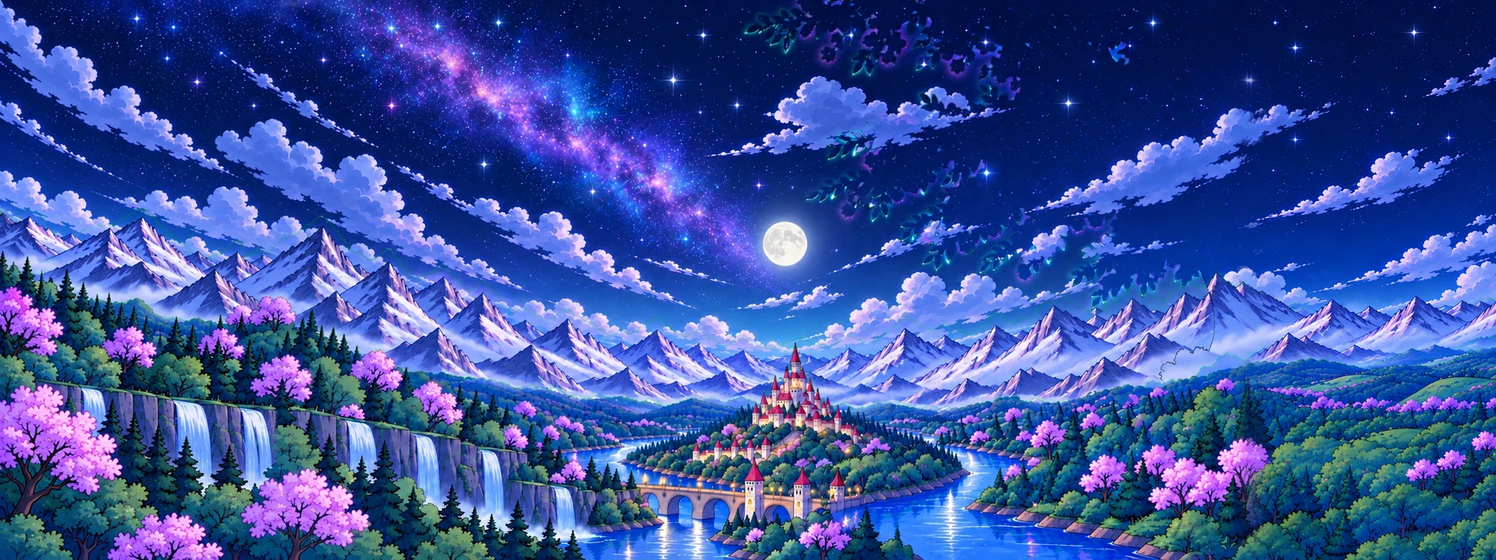
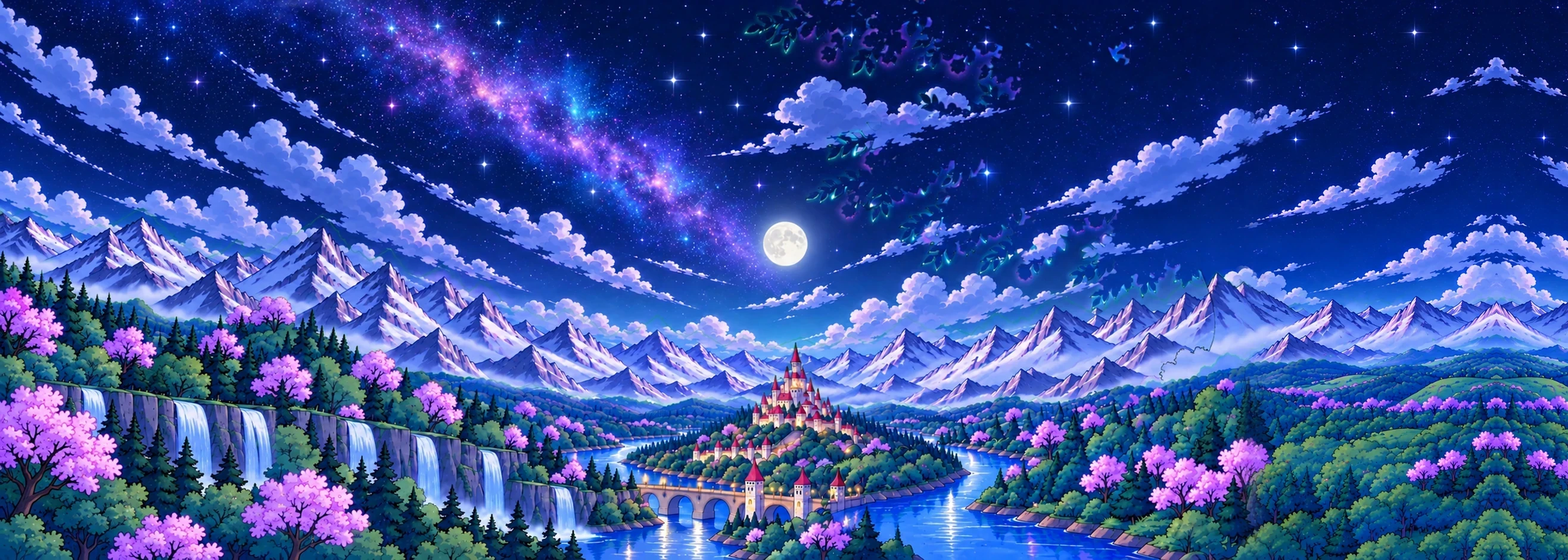
Portada: castillo y puente libres del risco (paisaje corrido), dragón y mago más a la izquierda, arbustos con flores bajo el árbol, techos fucsia de noche y pétalos de sakura más visibles

diff --git a/fondo-acuarela.js b/fondo-acuarela.js
@@ -14,7 +14,8 @@
 window.FondoAcuarela = (() => {
   const W = 1672, H = 941;                         // el dibujo original (las rutas del hada y las manchas se miden en él)
   const IZQ = 460, DER = 380, WL = W + DER;         // el paisaje continúa IZQ px a la izquierda y DER px a la derecha (el árbol ancho)
-  const CASTILLO = 800;   // entre la luna (700) y el castillo (861): los dos quedan al centro de la pantalla                             // x del castillo en el dibujo: queda al centro de la pantalla, bajo la luna (o el sol)
+  const BGX = 110;                                  // el paisaje de fondo se corre a la izquierda: el castillo y el puente quedan libres del risco
+  const CASTILLO = 861 - BGX, TRONCO = 2010;       // x del castillo (ya corrido) y del borde derecho del tronco ancho                             // x del castillo en el dibujo: queda al centro de la pantalla, bajo la luna (o el sol)
   const DURACION = 13;                             // segundos de la animación de pintado (desde el lineart)
   const TRAZO = 5.2;                               // segundos previos: el hada dibuja el lineart sobre la hoja en blanco
 
@@ -26,9 +27,9 @@ window.FondoAcuarela = (() => {
   // capas de la más lejana a la más cercana (todas con el marco completo de 1672 × 941).
   // figura: su lineart es el mismo de día y de noche
   const CAPAS = [
-    { id: '01-cielo', prof: .05 },
-    { id: '02-cordillera', prof: .15 },
-    { id: '03-valle', prof: .3 },
+    { id: '01-cielo', prof: .05, fondo: true },
+    { id: '02-cordillera', prof: .15, fondo: true },
+    { id: '03-valle', prof: .3, fondo: true },
     { id: '04-dragon', prof: .42, flota: [1.3, 7], figura: true, aura: [1.1, 0], corre: true },   // corre: el dragón y el mago, más a la izquierda (mismo tamaño)
     { id: '05-mago', prof: .55, flota: [1.7, 9], figura: true, aura: [1.5, 1.3], corre: true },
     { id: '06-primer-plano', prof: .85, aura: [.8, 2.4] },        // el árbol
@@ -134,6 +135,9 @@ window.FondoAcuarela = (() => {
         const [ea, el] = await Promise.all(['acuarela', 'lineart'].map(e => cargar(`assets/fondo/reino/${e === 'lineart' ? 'comun' : tema}/06-arbol-der-${e}.webp${VER}`).catch(() => null)));
         if (ea) co.getContext('2d').drawImage(ea, W - 80, 0, DER + 80, H);
         if (el) g.drawImage(el, W - 80, 0, DER + 80, H);
+        // arbustos con flores en el borde del pasto, bajo el árbol (detrás de la pareja)
+        const ab = await cargar(`assets/fondo/reino/${tema}/06-arbustos-acuarela.webp${VER}`).catch(() => null);
+        if (ab) co.getContext('2d').drawImage(ab, 1100, 752 - ab.height, ab.width, ab.height);
       }
       if (FONDO.includes(CAPAS.indexOf(c))) {   // el borde izquierdo del paisaje se funde con su continuación ancha (sin costura)
         [co.getContext('2d'), g].forEach(x => { x.save(); x.filter = 'none'; x.globalCompositeOperation = 'destination-out'; const gr = x.createLinearGradient(0, 0, 70, 0); gr.addColorStop(0, '#000'); gr.addColorStop(1, 'rgba(0,0,0,0)'); x.fillStyle = gr; x.fillRect(0, 0, 70, H); x.restore(); });
@@ -180,12 +184,14 @@ window.FondoAcuarela = (() => {
     // el dibujo con su paisaje ancho (de -IZQ a W + DER) del alto de la pantalla; el castillo al centro (bajo la luna o el sol)
     const AT = IZQ + WL;
     let k = ch / H * 1.06; if (AT * k < cw) k = cw / AT;   // un poco más alto que la pantalla: el parallax nunca deja ver el borde de arriba del árbol
-    const ox = Math.min(IZQ * k, Math.max(cw - WL * k, cw / 2 - CASTILLO * k));
+    // el castillo al centro; si así el tronco ancho no cabe entero, se busca el punto medio entre ambos
+    const alCastillo = cw / 2 - CASTILLO * k, alTronco = cw - TRONCO * k;
+    const ox = Math.min(IZQ * k, Math.max(cw - WL * k, alTronco < alCastillo ? (alCastillo + alTronco) / 2 : alCastillo));
     // el dragón y el mago se corren a la izquierda solo lo que deja la pantalla (sus alas nunca se cortan)
-    corrido = Math.max(0, Math.min(220, (ox - 12) / k + 65));
+    corrido = Math.max(0, Math.min(380, (ox - 12) / k + 65));
     return { k, ox, oy: (ch - H * k) / 2 };
   }
-  let corrido = 220;                                // cuánto se corren el dragón y el mago (px del dibujo)
+  let corrido = 380;                                // cuánto se corren el dragón y el mago (px del dibujo)
   const ANCHO_EXTRA = IZQ;                          // px del paisaje ancho a la izquierda del dibujo
   const marcoDe = (i, cw, ch) => encuadre(cw, ch);   // todas las capas en el mismo marco (antes cada una tenía el suyo y se deformaba la composición)
   /* versión anterior (escena entera bajo la barra, bordes rellenos con la escena difuminada):
@@ -207,8 +213,8 @@ window.FondoAcuarela = (() => {
   // la continuación del paisaje a la izquierda del dibujo (se mueve con la cordillera en el parallax)
   function pintarAncho(ctx, cw, ch, k, ox, oy, mx, my, a) {
     if (!img.ancho || a <= 0) return;
-    const prof = CAPAS[1].prof, dx = -mx * DESPLAZA * prof, dy = -my * DESPLAZA * prof, AW = WL + ANCHO_EXTRA;
-    ctx.globalAlpha = a; ctx.drawImage(img.ancho, ox + (dx - ANCHO_EXTRA) * k, oy + dy * k, AW * k, H * k); ctx.globalAlpha = 1;
+    const prof = CAPAS[1].prof, dx = -mx * DESPLAZA * prof, dy = -my * DESPLAZA * prof, AW = WL + ANCHO_EXTRA + 120;
+    ctx.globalAlpha = a; ctx.drawImage(img.ancho, ox + (dx - ANCHO_EXTRA - BGX) * k, oy + dy * k, AW * k, H * k); ctx.globalAlpha = 1;
   }
   function pintar(ctx, t, px = 0, py = 0) {
     if (!listos) return;
@@ -223,14 +229,14 @@ window.FondoAcuarela = (() => {
     pintarAncho(ctx, cw, ch, k, ox, oy, mx, my, t < DURACION ? suave((t - HECHIZO) / 1.6) : 1);
     if (t < DURACION && img.anchoLin) {   // mientras se pinta, el lado ancho sigue en lineart hasta que llega el hechizo de la luna
       const pr = CAPAS[1].prof; ctx.globalAlpha = 1 - suave((t - HECHIZO) / 1.6);
-      ctx.drawImage(img.anchoLin, ox - (ANCHO_EXTRA + mx * DESPLAZA * pr) * k, oy - my * DESPLAZA * pr * k, (ANCHO_EXTRA + 70) * k, H * k); ctx.globalAlpha = 1;
+      ctx.drawImage(img.anchoLin, ox - (ANCHO_EXTRA + BGX + mx * DESPLAZA * pr) * k, oy - my * DESPLAZA * pr * k, (ANCHO_EXTRA + 70) * k, H * k); ctx.globalAlpha = 1;
     }
     if (t >= DURACION) {
       // la energía aparece de a poco cuando la escena ya está pintada y luego late suave
       const energia = suave((t - DURACION) / 2.5) * (img.tema === 'dia' ? .38 : .72);
       CAPAS.forEach((c, i) => {
         const dx = -mx * DESPLAZA * c.prof, dy = -my * DESPLAZA * c.prof + (c.flota ? Math.sin(t * c.flota[0] + i) * c.flota[1] : 0);
-        const M = marcoDe(i, cw, ch), x = M.ox + (dx + (c.corre ? -corrido : 0)) * M.k, y = M.oy + dy * M.k, I = img[c.id];
+        const M = marcoDe(i, cw, ch), x = M.ox + (dx + (c.corre ? -corrido : c.fondo ? -BGX : 0)) * M.k, y = M.oy + dy * M.k, I = img[c.id];
         ctx.drawImage(I.co, x, y, WL * M.k, H * M.k);
         if (i === 1 && img.niebla) {   // la neblina se desliza lento sobre la cordillera
           ctx.globalAlpha = suave((t - DURACION) / 3) * (.75 + .25 * Math.sin(t * .35));
@@ -270,13 +276,13 @@ window.FondoAcuarela = (() => {
       cg.globalCompositeOperation = 'destination-out'; cg.drawImage(m, 0, 0, WL, H);
       cg.globalCompositeOperation = 'source-over'; cg.drawImage(tmp, 0, 0);
       const dx = -mx * DESPLAZA * c.prof, dy = -my * DESPLAZA * c.prof + (c.flota ? Math.sin(t * c.flota[0] + i) * c.flota[1] : 0);
-      const M = marcoDe(i, cw, ch); ctx.drawImage(capa, M.ox + (dx + (c.corre ? -corrido : 0)) * M.k, M.oy + dy * M.k, WL * M.k, H * M.k);
+      const M = marcoDe(i, cw, ch); ctx.drawImage(capa, M.ox + (dx + (c.corre ? -corrido : c.fondo ? -BGX : 0)) * M.k, M.oy + dy * M.k, WL * M.k, H * M.k);
     });
 
     // el hada vuela sobre la capa que está pintando
     if (t < 12.6) {
       const prof = v.mezcla !== undefined ? CAPAS[v.desde].prof + (CAPAS[v.capa].prof - CAPAS[v.desde].prof) * v.mezcla : CAPAS[v.capa].prof;
-      const d0 = v.mezcla !== undefined ? (CAPAS[v.desde].corre ? -corrido : 0) + ((CAPAS[v.capa].corre ? -corrido : 0) - (CAPAS[v.desde].corre ? -corrido : 0)) * v.mezcla : (CAPAS[v.capa].corre ? -corrido : 0);
+      const d0 = v.mezcla !== undefined ? (CAPAS[v.desde].corre ? -corrido : CAPAS[v.desde].fondo ? -BGX : 0) + ((CAPAS[v.capa].corre ? -corrido : CAPAS[v.capa].fondo ? -BGX : 0) - (CAPAS[v.desde].corre ? -corrido : CAPAS[v.desde].fondo ? -BGX : 0)) * v.mezcla : (CAPAS[v.capa].corre ? -corrido : CAPAS[v.capa].fondo ? -BGX : 0);
       const dx = -mx * DESPLAZA * prof + d0, dy = -my * DESPLAZA * prof;
       const H0 = marcoDe(v.capa, cw, ch), { k, ox, oy } = H0;   // el hada en el marco de la capa que pinta
       const tx = ox + (v.p[0] + dx) * k, ty = oy + (v.p[1] + dy) * k, e = HADA_ESC * k;
@@ -295,7 +301,7 @@ window.FondoAcuarela = (() => {
       // luz del hechizo sobre la luna
       const luz = Math.max(0, 1 - Math.abs(t - (HECHIZO + .35)) / .55);
       if (luz > 0) {
-        const L0 = marcoDe(0, cw, ch), lx = L0.ox + (LUNA[0] - mx * DESPLAZA * CAPAS[0].prof) * L0.k, ly = L0.oy + (LUNA[1] - my * DESPLAZA * CAPAS[0].prof) * L0.k, rad = (120 + 380 * luz) * L0.k;
+        const L0 = marcoDe(0, cw, ch), lx = L0.ox + (LUNA[0] - BGX - mx * DESPLAZA * CAPAS[0].prof) * L0.k, ly = L0.oy + (LUNA[1] - my * DESPLAZA * CAPAS[0].prof) * L0.k, rad = (120 + 380 * luz) * L0.k;
         const gr = ctx.createRadialGradient(lx, ly, 0, lx, ly, rad);
         gr.addColorStop(0, `rgba(255,255,255,${.95 * luz})`); gr.addColorStop(.3, `rgba(255,226,240,${.6 * luz})`); gr.addColorStop(1, 'rgba(255,200,230,0)');
         ctx.fillStyle = gr; ctx.fillRect(lx - rad, ly - rad, rad * 2, rad * 2);
@@ -316,13 +322,13 @@ window.FondoAcuarela = (() => {
     const g = mascaraTrazo.getContext('2d'); g.clearRect(0, 0, WL / 2, H / 2);
     for (const m of marcasTrazo) { if (t < m.nace) continue; const Rm = m.R * (.3 + .7 * suave((t - m.nace) / .5)) / 2; g.drawImage(sellos[m.v], m.x / 2 - Rm, m.y / 2 - Rm, Rm * 2, Rm * 2); }
     const listo = suave((t - (TRAZO - .7)) / .6); if (listo > 0) { g.globalAlpha = listo; g.fillRect(0, 0, WL / 2, H / 2); g.globalAlpha = 1; }
-    if (img.anchoLin) { ctx.save(); ctx.globalAlpha = suave(t / (TRAZO * .5)); const pr = CAPAS[1].prof; ctx.drawImage(img.anchoLin, ox - (ANCHO_EXTRA + px * 38 * pr) * k, oy - py * 38 * pr * k, (ANCHO_EXTRA + 70) * k, H * k); ctx.restore(); }
+    if (img.anchoLin) { ctx.save(); ctx.globalAlpha = suave(t / (TRAZO * .5)); const pr = CAPAS[1].prof; ctx.drawImage(img.anchoLin, ox - (ANCHO_EXTRA + BGX + px * 38 * pr) * k, oy - py * 38 * pr * k, (ANCHO_EXTRA + 70) * k, H * k); ctx.restore(); }
     const lg = lineaTrazo.getContext('2d');
     CAPAS.forEach((c, i) => {
       const M = marcoDe(i, cw, ch);
       lg.globalCompositeOperation = 'source-over'; lg.clearRect(0, 0, WL, H); lg.drawImage(img[c.id].bn, 0, 0);
       lg.globalCompositeOperation = 'destination-in'; lg.drawImage(mascaraTrazo, 0, 0, WL, H); lg.globalCompositeOperation = 'source-over';
-      ctx.drawImage(lineaTrazo, M.ox + ((c.corre ? -corrido : 0) - px * 38 * c.prof) * M.k, M.oy - py * 38 * c.prof * M.k, WL * M.k, H * M.k);
+      ctx.drawImage(lineaTrazo, M.ox + ((c.corre ? -corrido : c.fondo ? -BGX : 0) - px * 38 * c.prof) * M.k, M.oy - py * 38 * c.prof * M.k, WL * M.k, H * M.k);
     });
     // el hada con su varita al frente del trazo, dejando destellos
     const f = Math.min(1, t / TRAZO), p = RUTA_TRAZO.en(f), e = HADA_ESC * k;

diff --git a/index.html b/index.html
@@ -29,7 +29,7 @@
   <link rel="stylesheet" href="escenas.css?v=20261027i">
   <link rel="stylesheet" href="pergamino.css?v=20261025h">
   <link rel="stylesheet" href="pila.css?v=20261030q">
-  <link rel="stylesheet" href="ajustes.css?v=20261030u">
+  <link rel="stylesheet" href="ajustes.css?v=20261031d">
   <!-- <link rel="stylesheet" href="pagina-cuento.css?v=20261023f"> estilo de vidrio en prueba, desactivado -->
   <link rel="icon" href="assets/emblema-estrella.png">
   <script>
@@ -45,8 +45,8 @@
   <script src="tetris.js?v=20261030a" defer></script>
   <script src="app.js?v=20261028p" defer></script>
   <script src="magia.js?v=20261002a" defer></script>
-  <script src="fondo-acuarela.js?v=20261031c" defer></script>
-  <script src="secciones.js?v=20261017c" defer></script>
+  <script src="fondo-acuarela.js?v=20261031e" defer></script>
+  <script src="secciones.js?v=20261031d" defer></script>
   <script src="datos-salud.js?v=20261027c" defer></script>
   <script src="tableros-vivos.js?v=20261028c" defer></script>
   <script src="salud.js?v=20261027c" defer></script>

diff --git a/ajustes.css b/ajustes.css
@@ -393,3 +393,7 @@ html .teatro-app .colgante-app .app-cv .cv-hab[hidden], html .teatro-app .colgan
 /* Matrona hoy: el título bordado en el frente del cojín del sillón (sala.webp: frente ≈ x 590–1350, y 690–748) */
 html.escenas .sala-capa .sala-sillon { left: 396px !important; top: 768px !important; width: 900px !important; height: 84px !important; }
 html.escenas .sala-capa .sala-sillon-titulo { font-size: 64px !important; color: #8a2f6c !important; text-shadow: 0 2px 0 #ffe3f1, 0 0 10px rgba(255, 236, 246, .95), 0 0 2px #fff !important; }
+
+/* pétalos de sakura cayendo sobre el reino: más grandes y visibles, por delante del dibujo */
+.reino-petalos { z-index: 2; }
+.reino-petalos i { width: 20px !important; height: 15px !important; opacity: .95 !important; box-shadow: 0 0 6px rgba(255, 214, 236, .7); }

diff --git a/secciones.js b/secciones.js
@@ -237,7 +237,7 @@
     };
     // pétalos de sakura
     const caja = $('#reino-petalos');
-    if (!quieto) for (let i = 0; i < 22; i++) {
+    if (!quieto) for (let i = 0; i < 34; i++) {   // antes 22: casi no se veían
       const p = el('i'); p.style.cssText = `--x:${Math.random() * 100}vw;--d:${9 + Math.random() * 11}s;--r:${Math.random() * 360}deg;--s:${.5 + Math.random() * .9};--dx:${(Math.random() * 40 - 10)}vw;animation-delay:-${Math.random() * 20}s`;
       caja.append(p);
     }
